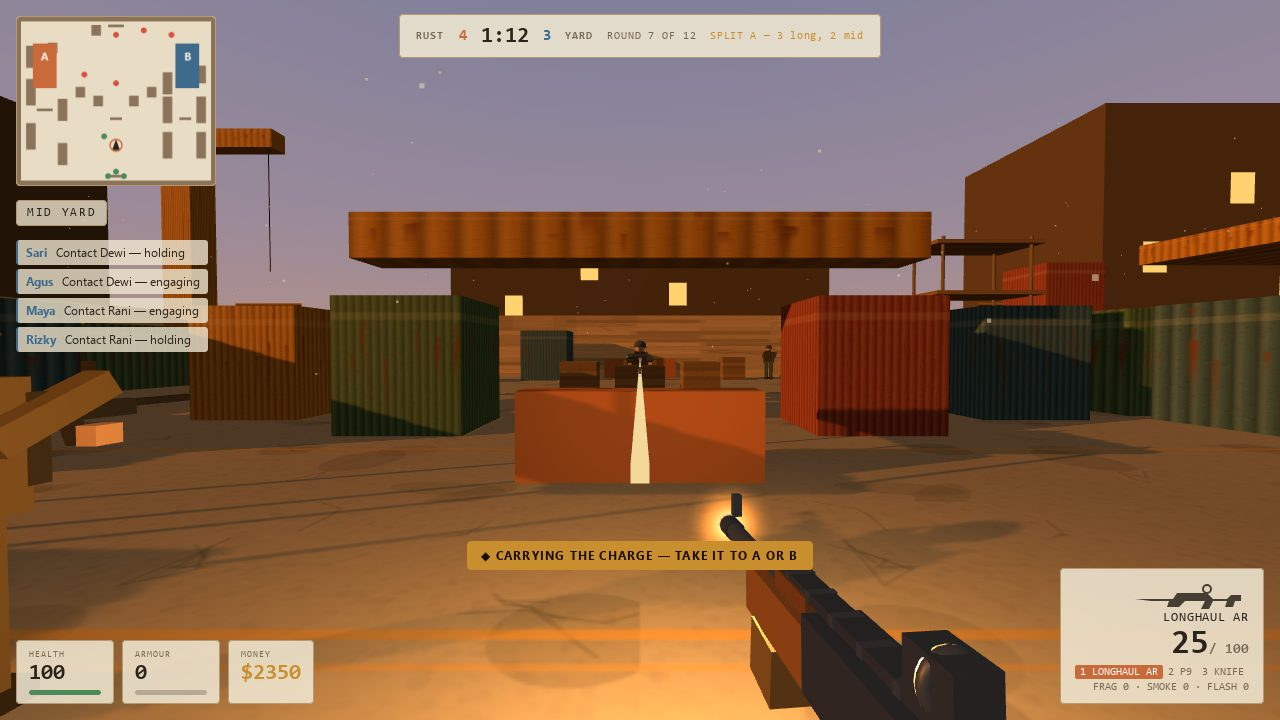
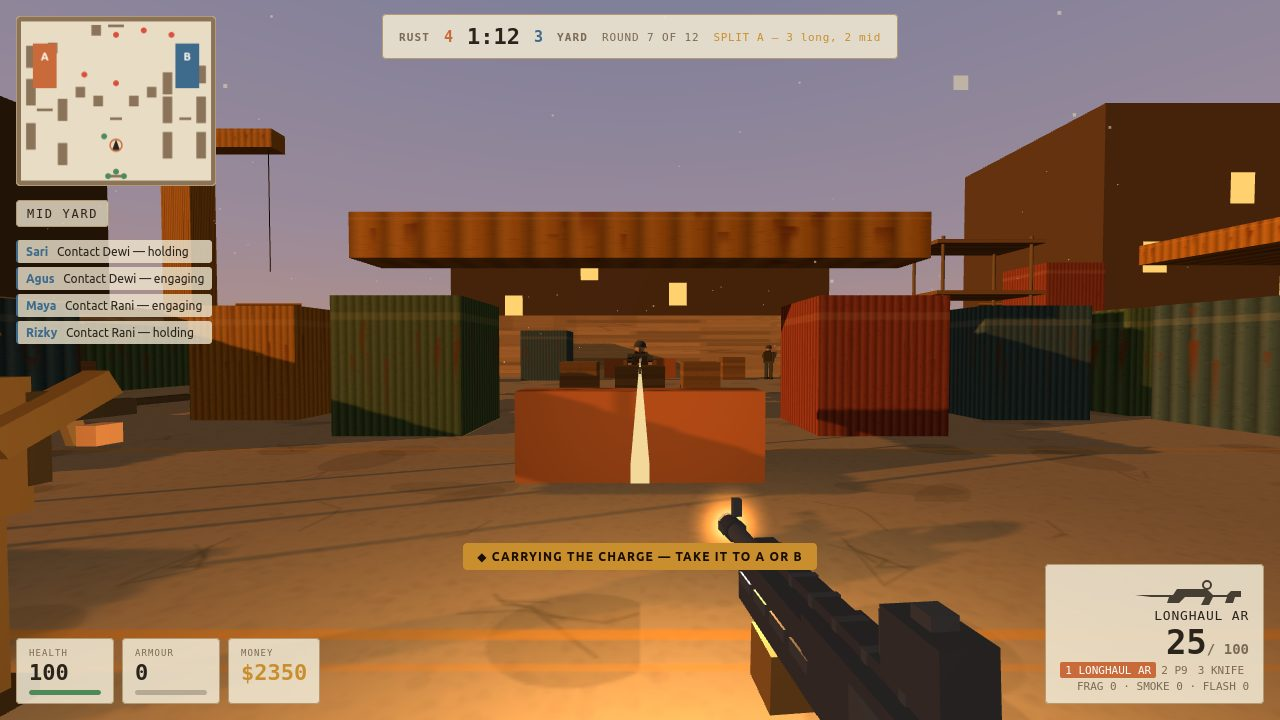
Rifle from Yiro ref: two-tone black + tan/FDE AR, M-LOK handguard, holographic red-dot, ribbed tan foregrip, curved tan mag, collapsible tan stock, birdcage flash hider

diff --git a/game/src/weapons.js b/game/src/weapons.js
@@ -12,6 +12,8 @@ const STEEL = new THREE.MeshStandardMaterial({ color: new THREE.Color('#4a4e57')
 const STEEL_DARK = new THREE.MeshStandardMaterial({ color: new THREE.Color('#33373e'), roughness: 0.5, metalness: 0.6, emissive: new THREE.Color('#1c1f24'), emissiveIntensity: 0.7 });
 const WOOD = new THREE.MeshStandardMaterial({ color: new THREE.Color('#7a5230'), roughness: 0.75, metalness: 0.05, emissive: new THREE.Color('#2a1a0c'), emissiveIntensity: 0.5 });
 const WOOD_DARK = new THREE.MeshStandardMaterial({ color: new THREE.Color('#5f3d22'), roughness: 0.8, metalness: 0.05, emissive: new THREE.Color('#20140a'), emissiveIntensity: 0.5 });
+const TAN = new THREE.MeshStandardMaterial({ color: new THREE.Color('#8a7a5c'), roughness: 0.75, metalness: 0.05, emissive: new THREE.Color('#2a241a'), emissiveIntensity: 0.5 });
+const TAN_DARK = new THREE.MeshStandardMaterial({ color: new THREE.Color('#6b5d45'), roughness: 0.8, metalness: 0.05, emissive: new THREE.Color('#1e1810'), emissiveIntensity: 0.5 });
 const GLOVE = new THREE.MeshStandardMaterial({ color: new THREE.Color('#6b5a3a'), roughness: 0.9, metalness: 0, emissive: new THREE.Color('#1e180c'), emissiveIntensity: 0.5 });
 const BRASS = new THREE.MeshStandardMaterial({ color: new THREE.Color('#c9a227'), roughness: 0.35, metalness: 0.9 });
 const POLYMER = new THREE.MeshStandardMaterial({ color: new THREE.Color('#23262b'), roughness: 0.7, metalness: 0.2 });
@@ -34,41 +36,69 @@ function cyl(r, len, mat, x = 0, y = 0, z = 0, rx = Math.PI / 2) {
 // --- viewmodel builders: each returns { group, muzzle } where muzzle is the
 // local position of the barrel tip (camera space, model at its base pose). ---
 function buildRifle() {
+  // LONGHAUL AR rebuilt from Yiro's reference sheet (AR-15 carbine, two-tone
+  // black + tan/FDE): long M-LOK handguard, holographic red-dot, tan
+  // vertical foregrip, curved tan mag, collapsible tan stock, birdcage
+  // flash hider. Built pointing -z; the muzzle is at z = -0.72.
   const g = new THREE.Group();
+  // receiver (black) + ejection port + selector + charging handle
   g.add(box(0.09, 0.11, 0.42, STEEL_DARK)); // receiver
-  g.add(cyl(0.02, 0.52, STEEL, 0, 0.02, -0.44)); // long barrel
-  g.add(box(0.08, 0.09, 0.3, WOOD, 0, -0.015, -0.32)); // wooden handguard
-  g.add(box(0.05, 0.03, 0.12, WOOD_DARK, 0, 0.045, -0.3)); // handguard top rail
-  // top rail: thin strip with slots along the receiver + handguard
-  g.add(box(0.04, 0.015, 0.5, STEEL_DARK, 0, 0.062, -0.18));
-  for (let i = 0; i < 6; i += 1) {
-    g.add(box(0.045, 0.018, 0.012, STEEL, 0, 0.062, -0.38 + i * 0.07));
+  g.add(box(0.095, 0.04, 0.12, STEEL, 0.0, 0.02, -0.02)); // ejection port (right side)
+  g.add(box(0.02, 0.02, 0.05, STEEL, 0.055, 0.0, 0.06)); // fire selector
+  g.add(box(0.06, 0.02, 0.02, STEEL, 0, 0.06, 0.2)); // charging handle (T)
+  // long barrel + birdcage flash hider (cylinder with slots)
+  g.add(cyl(0.02, 0.52, STEEL, 0, 0.02, -0.44));
+  g.add(cyl(0.026, 0.07, STEEL_DARK, 0, 0.02, -0.7));
+  g.add(box(0.056, 0.02, 0.05, STEEL, 0, 0.02, -0.7)); // flash hider slots
+  // M-LOK handguard (black, free-float) with side slots + top rail
+  g.add(box(0.085, 0.1, 0.34, STEEL_DARK, 0, -0.01, -0.34));
+  for (let i = 0; i < 4; i += 1) {
+    // M-LOK slots on both sides
+    g.add(box(0.005, 0.02, 0.06, STEEL, 0.044, -0.01, -0.46 + i * 0.08));
+    g.add(box(0.005, 0.02, 0.06, STEEL, -0.044, -0.01, -0.46 + i * 0.08));
   }
-  // red-dot sight: housing + ring + glowing dot, on the rail
-  g.add(box(0.05, 0.06, 0.07, STEEL_DARK, 0, 0.1, 0.02));
-  const ring = new THREE.Mesh(new THREE.TorusGeometry(0.028, 0.008, 8, 20), STEEL);
-  ring.position.set(0, 0.1, 0.02);
-  g.add(ring);
-  const dot = new THREE.Mesh(new THREE.SphereGeometry(0.008, 8, 8),
+  // top rail: thin strip with slots along receiver + handguard
+  g.add(box(0.04, 0.015, 0.56, STEEL_DARK, 0, 0.062, -0.2));
+  for (let i = 0; i < 7; i += 1) {
+    g.add(box(0.045, 0.018, 0.012, STEEL, 0, 0.062, -0.44 + i * 0.07));
+  }
+  // holographic red-dot sight (boxy housing + round lens + hood)
+  g.add(box(0.06, 0.07, 0.09, STEEL_DARK, 0, 0.11, 0.0)); // sight housing
+  g.add(box(0.05, 0.05, 0.01, STEEL, 0, 0.11, -0.05)); // lens hood (front)
+  const lens = new THREE.Mesh(new THREE.CircleGeometry(0.02, 16),
     new THREE.MeshBasicMaterial({ color: new THREE.Color('#ff2e1e') }));
-  dot.position.set(0, 0.1, 0.02);
-  g.add(dot);
-  // vertical foregrip under the handguard
-  g.add(box(0.045, 0.11, 0.05, POLYMER, 0, -0.1, -0.38, 0.1));
-  // charging handle on the side
-  g.add(box(0.02, 0.02, 0.06, STEEL, 0.055, 0.02, 0.1));
-  // curved magazine: three segments, each tilted a little more
-  g.add(box(0.05, 0.13, 0.07, STEEL, 0, -0.11, -0.04, 0.12));
-  g.add(box(0.05, 0.12, 0.07, STEEL, 0, -0.2, -0.09, 0.32));
-  g.add(box(0.05, 0.1, 0.06, STEEL, 0, -0.27, -0.15, 0.55));
-  g.add(box(0.07, 0.1, 0.24, WOOD, 0, -0.02, 0.3, -0.06)); // wooden stock
-  g.add(box(0.06, 0.13, 0.07, POLYMER, 0, -0.11, 0.12, 0.35)); // pistol grip
-  g.add(box(0.02, 0.05, 0.02, STEEL, 0, 0.085, -0.66)); // front sight post
-  g.add(box(0.015, 0.03, 0.1, STEEL_DARK, 0, -0.06, 0.02)); // trigger guard
-  g.add(cyl(0.024, 0.06, STEEL_DARK, 0, 0.02, -0.7)); // muzzle nut
+  lens.position.set(0, 0.11, -0.056);
+  lens.rotation.y = Math.PI;
+  g.add(lens);
+  g.add(box(0.03, 0.02, 0.03, STEEL, 0, 0.15, 0.0)); // sight top knob
+  // vertical foregrip (tan, stubby, ribbed) under the handguard
+  g.add(box(0.045, 0.11, 0.05, TAN, 0, -0.11, -0.38, 0.08));
+  g.add(box(0.05, 0.012, 0.055, TAN_DARK, 0, -0.09, -0.38, 0.08)); // rib 1
+  g.add(box(0.05, 0.012, 0.055, TAN_DARK, 0, -0.12, -0.38, 0.08)); // rib 2
+  g.add(box(0.05, 0.012, 0.055, TAN_DARK, 0, -0.15, -0.38, 0.08)); // rib 3
+  // curved tan magazine (three segments, each tilted a little more)
+  g.add(box(0.05, 0.13, 0.07, TAN, 0, -0.11, -0.04, 0.12));
+  g.add(box(0.05, 0.12, 0.07, TAN, 0, -0.2, -0.09, 0.32));
+  g.add(box(0.05, 0.1, 0.06, TAN, 0, -0.27, -0.15, 0.55));
+  g.add(box(0.055, 0.02, 0.075, TAN_DARK, 0, -0.31, -0.18, 0.55)); // mag baseplate
+  // collapsible tan stock: cheek riser + butt plate + sling loop
+  g.add(box(0.07, 0.08, 0.2, TAN, 0, 0.0, 0.3)); // stock body
+  g.add(box(0.07, 0.03, 0.22, TAN_DARK, 0, 0.045, 0.3)); // cheek riser
+  g.add(box(0.075, 0.12, 0.03, TAN_DARK, 0, -0.01, 0.41)); // butt plate
+  g.add(box(0.02, 0.05, 0.02, STEEL_DARK, 0, -0.08, 0.4)); // sling loop
+  g.add(box(0.05, 0.02, 0.1, STEEL_DARK, 0, -0.05, 0.26)); // buffer tube
+  // pistol grip (tan, angled, beavertail)
+  g.add(box(0.06, 0.13, 0.07, TAN, 0, -0.11, 0.12, 0.35));
+  g.add(box(0.065, 0.03, 0.075, TAN_DARK, 0, -0.06, 0.12, 0.35)); // beavertail
+  // trigger + trigger guard
+  g.add(box(0.015, 0.04, 0.015, STEEL, 0, -0.07, 0.02));
+  g.add(box(0.015, 0.02, 0.1, STEEL_DARK, 0, -0.09, 0.02)); // trigger guard
+  // front sight post (folded low, under the rail) + rear sight
+  g.add(box(0.02, 0.04, 0.02, STEEL, 0, 0.08, -0.66));
+  g.add(box(0.05, 0.02, 0.06, STEEL, 0, 0.07, 0.16)); // rear sight
   // two gloved hands: rear on the grip, front on the foregrip
   g.add(box(0.1, 0.1, 0.13, GLOVE, 0, -0.11, 0.12, 0.35)); // rear hand on grip
-  g.add(box(0.09, 0.1, 0.1, GLOVE, 0, -0.11, -0.38, 0.1)); // front hand on foregrip
+  g.add(box(0.09, 0.1, 0.1, GLOVE, 0, -0.12, -0.38, 0.08)); // front hand on foregrip
   return { group: g, muzzle: new THREE.Vector3(0, 0.02, -0.72) };
 }
 

diff --git a/game/src/bots.js b/game/src/bots.js
@@ -87,13 +87,16 @@ function makeBotMesh(team) {
   gunBarrel.rotation.x = Math.PI / 2;
   gunBarrel.position.set(0, 0.02, -0.45);
   gun.add(gunBarrel);
-  const gunMag = new THREE.Mesh(new THREE.BoxGeometry(0.05, 0.14, 0.07), darkMat);
+  const gunMag = new THREE.Mesh(new THREE.BoxGeometry(0.05, 0.14, 0.07), new THREE.MeshStandardMaterial({ color: new THREE.Color('#8a7a5c'), roughness: 0.75 }));
   gunMag.position.set(0, -0.1, -0.05);
   gunMag.rotation.x = 0.25;
   gun.add(gunMag);
-  const gunStock = new THREE.Mesh(new THREE.BoxGeometry(0.06, 0.08, 0.18), darkMat);
+  const gunStock = new THREE.Mesh(new THREE.BoxGeometry(0.06, 0.08, 0.18), new THREE.MeshStandardMaterial({ color: new THREE.Color('#8a7a5c'), roughness: 0.75 }));
   gunStock.position.set(0, -0.01, 0.36);
   gun.add(gunStock);
+  const gunSight = new THREE.Mesh(new THREE.BoxGeometry(0.05, 0.06, 0.07), darkMat);
+  gunSight.position.set(0, 0.08, 0.0);
+  gun.add(gunSight);
   gun.position.set(0.05, 1.28, -0.42);
   gun.rotation.y = -0.08;
   group.add(gun);

diff --git a/REVISION.md b/REVISION.md
@@ -83,7 +83,29 @@ orang, model hasil scan). Yang didorong ke arah itu:
 - Hasil tes: 4 screenshot staged nol error; dossier 141.128 byte
   (< 163.840 cap); 4 gambar; cover = 1-cover.jpg.
 
-### Yang masih jelek (iterasi 2)
+## Iterasi 3 — LONGHAUL AR dari gambar referensi Yiro (15 Nov ~21:00–21:05 WIB)
+Yiro kirim gambar referensi AR-15 (multi-view: samping kiri/kanan, depan,
+belakang). Viewmodel rifle dibangun ulang dari gambar itu:
+- **Two-tone hitam + tan/FDE** (persis referensi): receiver, handguard,
+  dan laras hitam; stock, pistol grip, magazine, dan foregrip tan.
+- Handguard M-LOK hitam (slot di kedua sisi) + rail atas penuh.
+- Red-dot holographic: housing kotak + lensa bundar merah + knob atas.
+- Foregrip tan ber-rib (3 rib), magazine tan melengkung (3 segmen +
+  baseplate), stock tan collapsible (cheek riser + butt plate + sling
+  loop + buffer tube), pistol grip tan (beavertail), flash hider
+  birdcage, charging handle, ejection port, fire selector.
+- Bot juga pegang rifle two-tone yang sama (mag + stock tan, sight).
+- Referensi disimpan di `ref-rifle-ar15.webp` (bukan aset game).
+- Hasil tes: 4 screenshot staged nol error; dossier 143.637 byte
+  (< 163.840 cap).
+
+### Yang masih kurang (iterasi 3)
+- Detail halus referensi (ukiran, baut, wear, tekstur) tidak bisa
+  direproduksi dari geometri — siluet + warna + bagian khasnya yang
+  ditiru.
+- Red-dot sight masih kecil dari sudut pandang pemain.
+- 60 FPS + pointer lock tetap belum terverifikasi di Chrome desktop
+  beneran.
 - Prajurit masih dari primitif (kotak/silinder/bola) — siluetnya sudah
   manusia, tapi detail kain, wajah, dan gear masih kasar.
 - Red-dot sight kecil dan susah dilihat dari sudut pandang pemain.
